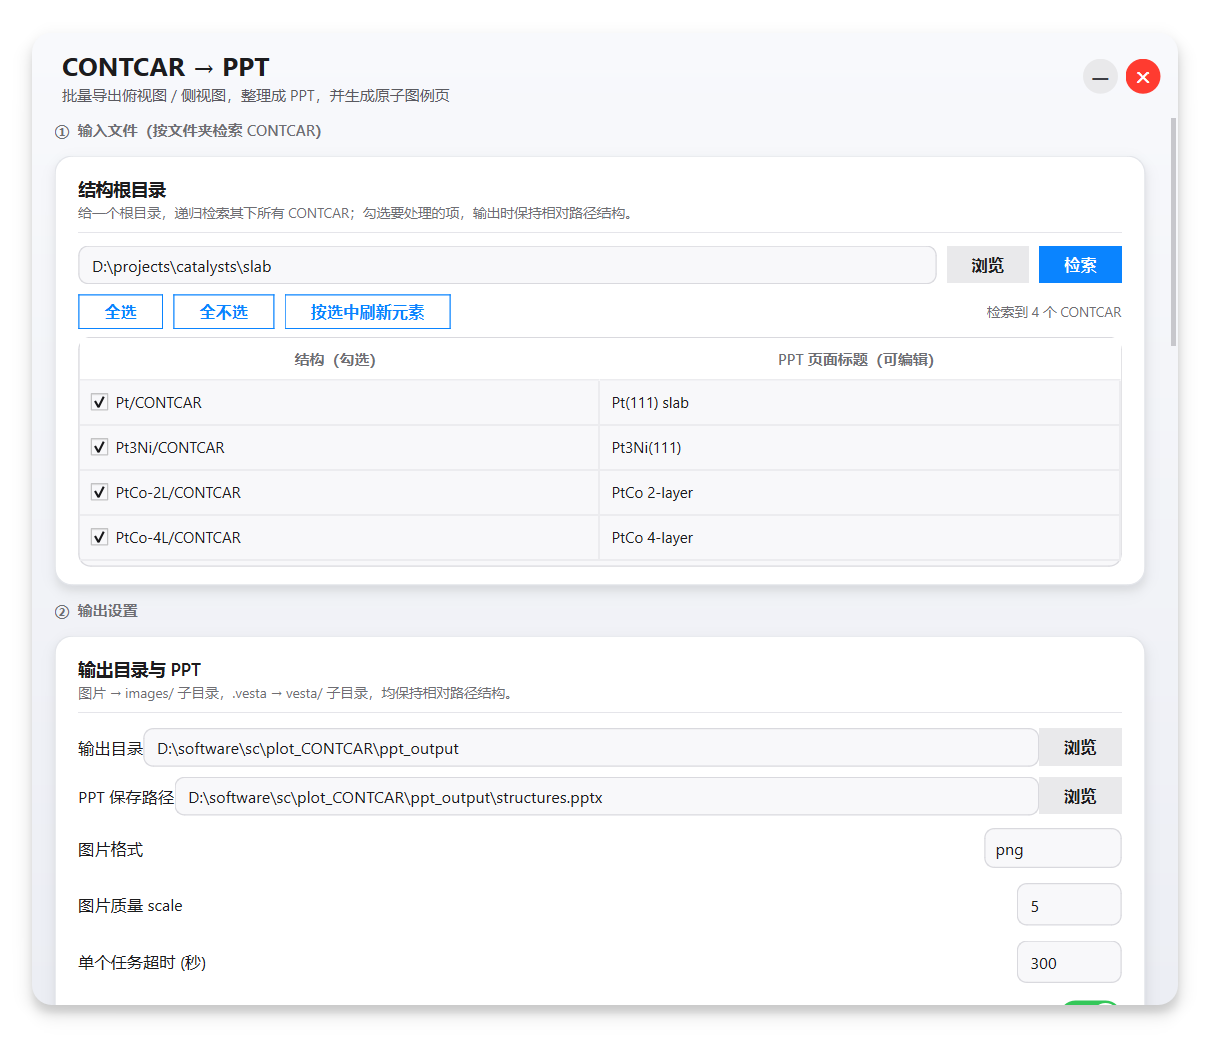
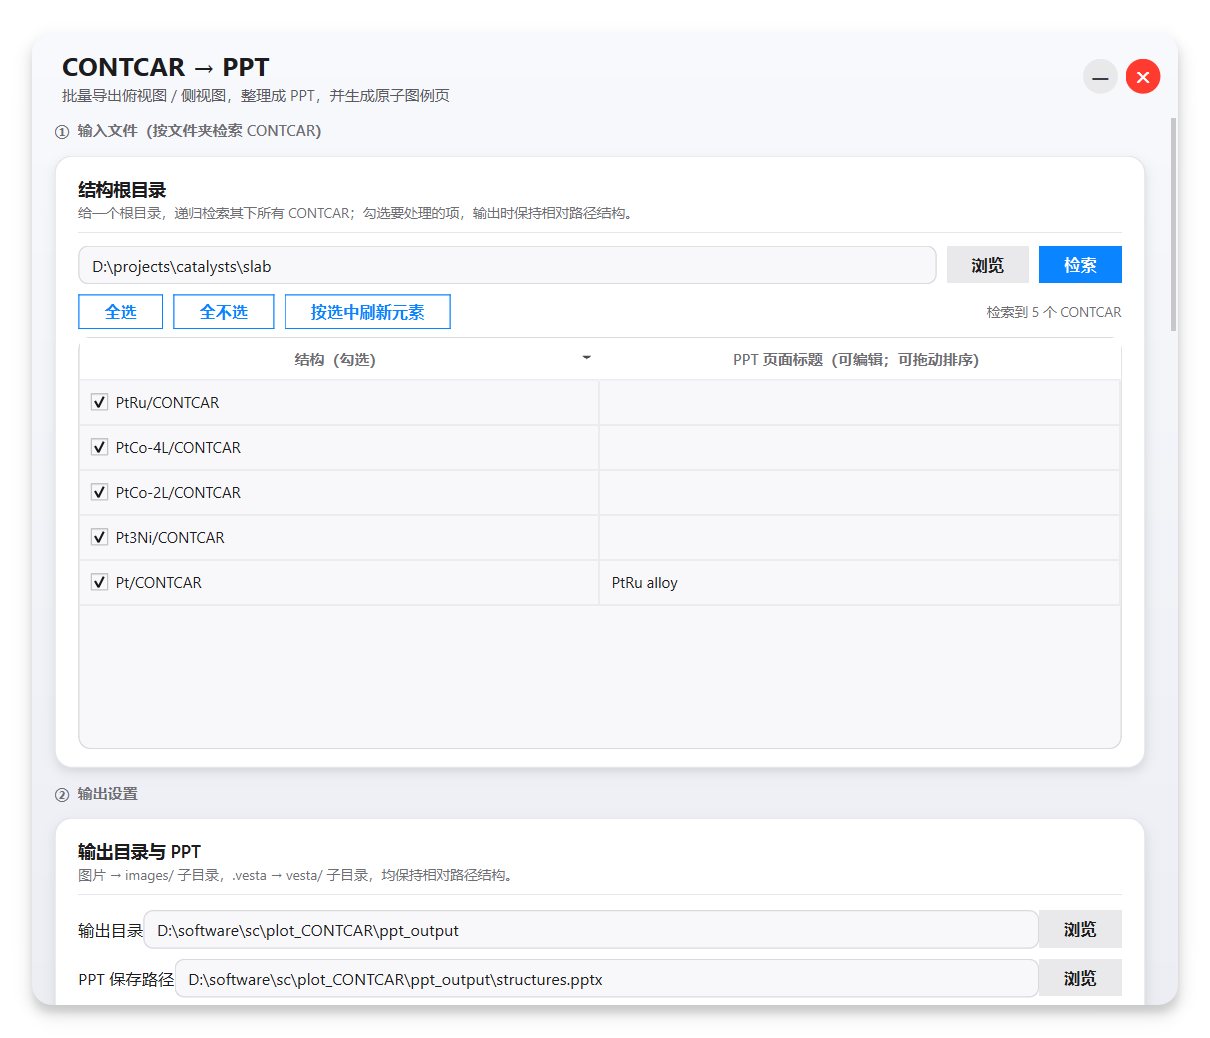
feat(gui): 列表加高支持表头排序与拖动排序；c 轴 BOUND 默认 [-0.05,0.95]；刷新截图

diff --git a/vesta_gui.py b/vesta_gui.py
@@ -847,6 +847,29 @@ class NoWheelDoubleSpinBox(QDoubleSpinBox):
         e.ignore()
 
 
+class FileTable(QTableWidget):
+    """文件表：支持表头点击排序 + 手动拖动行排序。
+
+    默认开启排序；一旦手动拖动，就关闭自动排序以保留手动顺序，
+    再次点击表头又会恢复按列排序。
+    """
+
+    def __init__(self, *args, **kwargs):
+        super().__init__(*args, **kwargs)
+        self.setDragEnabled(True)
+        self.setAcceptDrops(True)
+        self.setDropIndicatorShown(True)
+        self.setDragDropMode(QAbstractItemView.InternalMove)
+        self.setDragDropOverwriteMode(False)
+        self.setDefaultDropAction(Qt.MoveAction)
+        self.setSortingEnabled(True)
+
+    def startDrag(self, actions):
+        # 手动拖动时先关闭自动排序，保证拖完的顺序不被重新排序覆盖
+        self.setSortingEnabled(False)
+        super().startDrag(actions)
+
+
 class Card(QFrame):
     """圆角白色卡片（带阴影）。"""
 
@@ -1132,10 +1155,10 @@ class MainWindow(QWidget):
         tool_row.addWidget(self.scan_info)
         card.layout().addLayout(tool_row)
 
-        self.file_table = QTableWidget(0, 2)
-        self.file_table.setHorizontalHeaderLabels(["结构（勾选）", "PPT 页面标题（可编辑）"])
+        self.file_table = FileTable(0, 2)
+        self.file_table.setHorizontalHeaderLabels(["结构（勾选）", "PPT 页面标题（可编辑；可拖动排序）"])
         self.file_table.verticalHeader().setVisible(False)
-        self.file_table.setFixedHeight(184)
+        self.file_table.setFixedHeight(330)
         self.file_table.setSelectionBehavior(QAbstractItemView.SelectRows)
         self.file_table.setEditTriggers(QAbstractItemView.DoubleClicked
                                         | QAbstractItemView.SelectedClicked
@@ -1144,6 +1167,8 @@ class MainWindow(QWidget):
         hh.setSectionResizeMode(0, QHeaderView.Stretch)
         hh.setSectionResizeMode(1, QHeaderView.Stretch)
         hh.setFixedHeight(34)
+        hh.setSortIndicatorShown(True)
+        hh.sectionClicked.connect(self._on_header_clicked)
         vh = self.file_table.verticalHeader()
         vh.setDefaultSectionSize(36)
         vh.setMinimumSectionSize(36)
@@ -1235,12 +1260,14 @@ class MainWindow(QWidget):
         bnd_grid = QHBoxLayout()
         bnd_grid.setSpacing(8)
         self.boundary_vars = []
-        for axis in ("a", "b", "c"):
+        for axis, dflt in (("a", ("-0.05", "1.05")),
+                           ("b", ("-0.05", "1.05")),
+                           ("c", ("-0.05", "0.95"))):
             tag = QLabel(f"{axis} 轴")
             tag.setObjectName("HintLabel")
             tag.setFixedWidth(30)
             bnd_grid.addWidget(tag)
-            for d in ("-0.05", "1.05"):
+            for d in dflt:
                 e = QLineEdit(d)
                 e.setFixedWidth(58)
                 e.setAlignment(Qt.AlignCenter)
@@ -1344,6 +1371,7 @@ class MainWindow(QWidget):
             QMessageBox.warning(self, "提示", "请输入一个有效的文件夹路径。")
             return
         self.root_path = Path(root)
+        self.file_table.setSortingEnabled(False)
         self.file_table.setRowCount(0)
         found = [p for p in sorted(self.root_path.rglob("*"))
                  if p.is_file() and p.name.upper() == "CONTCAR"]
@@ -1360,9 +1388,18 @@ class MainWindow(QWidget):
             it1.setFlags(Qt.ItemIsEnabled | Qt.ItemIsSelectable | Qt.ItemIsEditable)
             it1.setToolTip("可编辑该结构在 PPT 页面上的标题")
             self.file_table.setItem(r, 1, it1)
+        self.file_table.horizontalHeader().setSortIndicator(0, Qt.AscendingOrder)
+        self.file_table.setSortingEnabled(True)
+        self.file_table.sortItems(0, Qt.AscendingOrder)
         self.scan_info.setText(f"检索到 {len(found)} 个 CONTCAR")
         self._append_log(f"在 {root} 下检索到 {len(found)} 个 CONTCAR 文件。", "info")
         self._refresh_elements()
+
+    def _on_header_clicked(self, col):
+        # 点击表头按该列排序（手动拖动后也能恢复排序）
+        self.file_table.setSortingEnabled(True)
+        self.file_table.sortItems(
+            col, self.file_table.horizontalHeader().sortIndicatorOrder())
 
     def _check_all(self, checked):
         state = Qt.Checked if checked else Qt.Unchecked

diff --git a/README.md b/README.md
@@ -137,10 +137,10 @@ PPT 每一页示例：
 
 | 区 | 名称 | 主要项 |
 | :-: | :--- | :--- |
-| ① | **输入文件** | 结构根目录（浏览 / 检索）、结果表（勾选 + **可编辑的 PPT 页面标题列**）、全选 / 全不选 / 按选中刷新元素 |
+| ① | **输入文件** | 结构根目录（浏览 / 检索）、结果表（勾选 + **可编辑标题列**，支持**表头点击排序**与**拖动行排序**）、全选 / 全不选 / 按选中刷新元素 |
 | ② | **输出设置** | 输出目录、**PPT 保存路径**、图片格式、画质 `scale`、超时、隐藏窗口、输出 `.vesta`、VESTA.exe 路径 |
 | ③ | **视图设置** | 生成俯视图 / 侧视图、侧视方向、额外旋转 X/Y/Z、**模型占图片比例**（默认 0.8）、**模型放大方式**、幻灯片图片排版 |
-| ④ | **VESTA 显示** | `COMPS` / `UCOLP` / `SBOND` 开关、成键容差、`scale_frac`、`x/y_move`、显示边界 `BOUND`（默认 `-0.05 ~ 1.05`，已标注 **a/b/c 轴**） |
+| ④ | **VESTA 显示** | `COMPS` / `UCOLP` / `SBOND` 开关、成键容差、`scale_frac`、`x/y_move`、显示边界 `BOUND`（已标注 **a/b/c 轴**；默认 a、b 轴 `-0.05 ~ 1.05`，c 轴 `-0.05 ~ 0.95`） |
 | ⑤ | **原子样式** | 元素 / 半径 / 颜色（**点击色块用色轮取色**），检索后按结构元素自动填充（可增删） |
 | ⑥ | **图例页** | 是否生成、球体直径、每行数量、是否标注半径、图例位置 |
 | ⑦ | **运行** | 开始 / 停止、进度条、实时日志 |
@@ -180,6 +180,7 @@ VESTA 导出的 PNG 画布是固定的，模型往往只占中间一小块。工
 ### 页面标题自定义
 
 检索后的表格第二列可直接编辑，作为每个结构所在 PPT 页面的标题（默认 = 相对路径）。
+表格支持**点击表头按列排序**，也支持**按住行拖动手动排序**（拖动后自动关闭排序以保留手动顺序）。
 
 > 滚动页面时，鼠标悬停在下拉框 / 数值输入框上**不会误改**它们的值（已禁用滑轮修改）。
 
